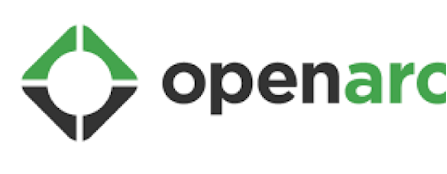
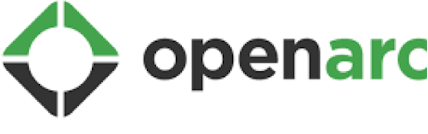
update

Changed region(s): [[0.3341, 0.2687, 1.0, 0.6866], [0.0, 0.0, 0.3037, 0.8955]]

diff --git a/about.html b/about.html
@@ -213,7 +213,7 @@
                 </div>
                 <div class="col-sm">
                     <a href="https://www.openarc.net/">
-                        <img class="sponsor" src="images/partners/openarc.png" />
+                        <img style="width:400px" class="sponsor" src="images/partners/openarc.png" />
                     </a>
                 </div>
                 <div class="col-sm">
@@ -259,7 +259,7 @@
         <h2>JOIN US</h2>
         <h3>Without all of you, none of this would be possible!</h3>
         <div style="background-color: var(--fifth-color);padding-top:2%"><a href="https://docs.google.com/forms/d/e/1FAIpQLScfGWzH9oWlPYqNBZzoRCc3Z-6Z_mHjM1IV1sOjgAKvJG9Q5g/viewform?usp=sf_link
-                                                                            " class="btn btn-lg btn-secondary" style="font-size:1em">Sign up for our mailing list</a></div>
+                                                                            " class="btn btn-lg btn-secondary signupbtn">Sign up for our mailing list</a></div>
     </div>
 
     <!-- FOOTER -->

diff --git a/styles/about.css b/styles/about.css
@@ -28,6 +28,17 @@
     font-size: 1.8em;
 }
 
+.signupbtn {
+    font-size: 1em;
+}
+
+/* phone screens */
+@media (max-width: 687px ) {
+    .signupbtn {
+        font-size: .6em;
+    }
+}
+
 /* SECTIONS */
 .header {
     background: linear-gradient( rgba(0, 0, 0, 0.5), rgba(0, 0, 0, 0.5) ), url("../images/aboutbg.jpg");
